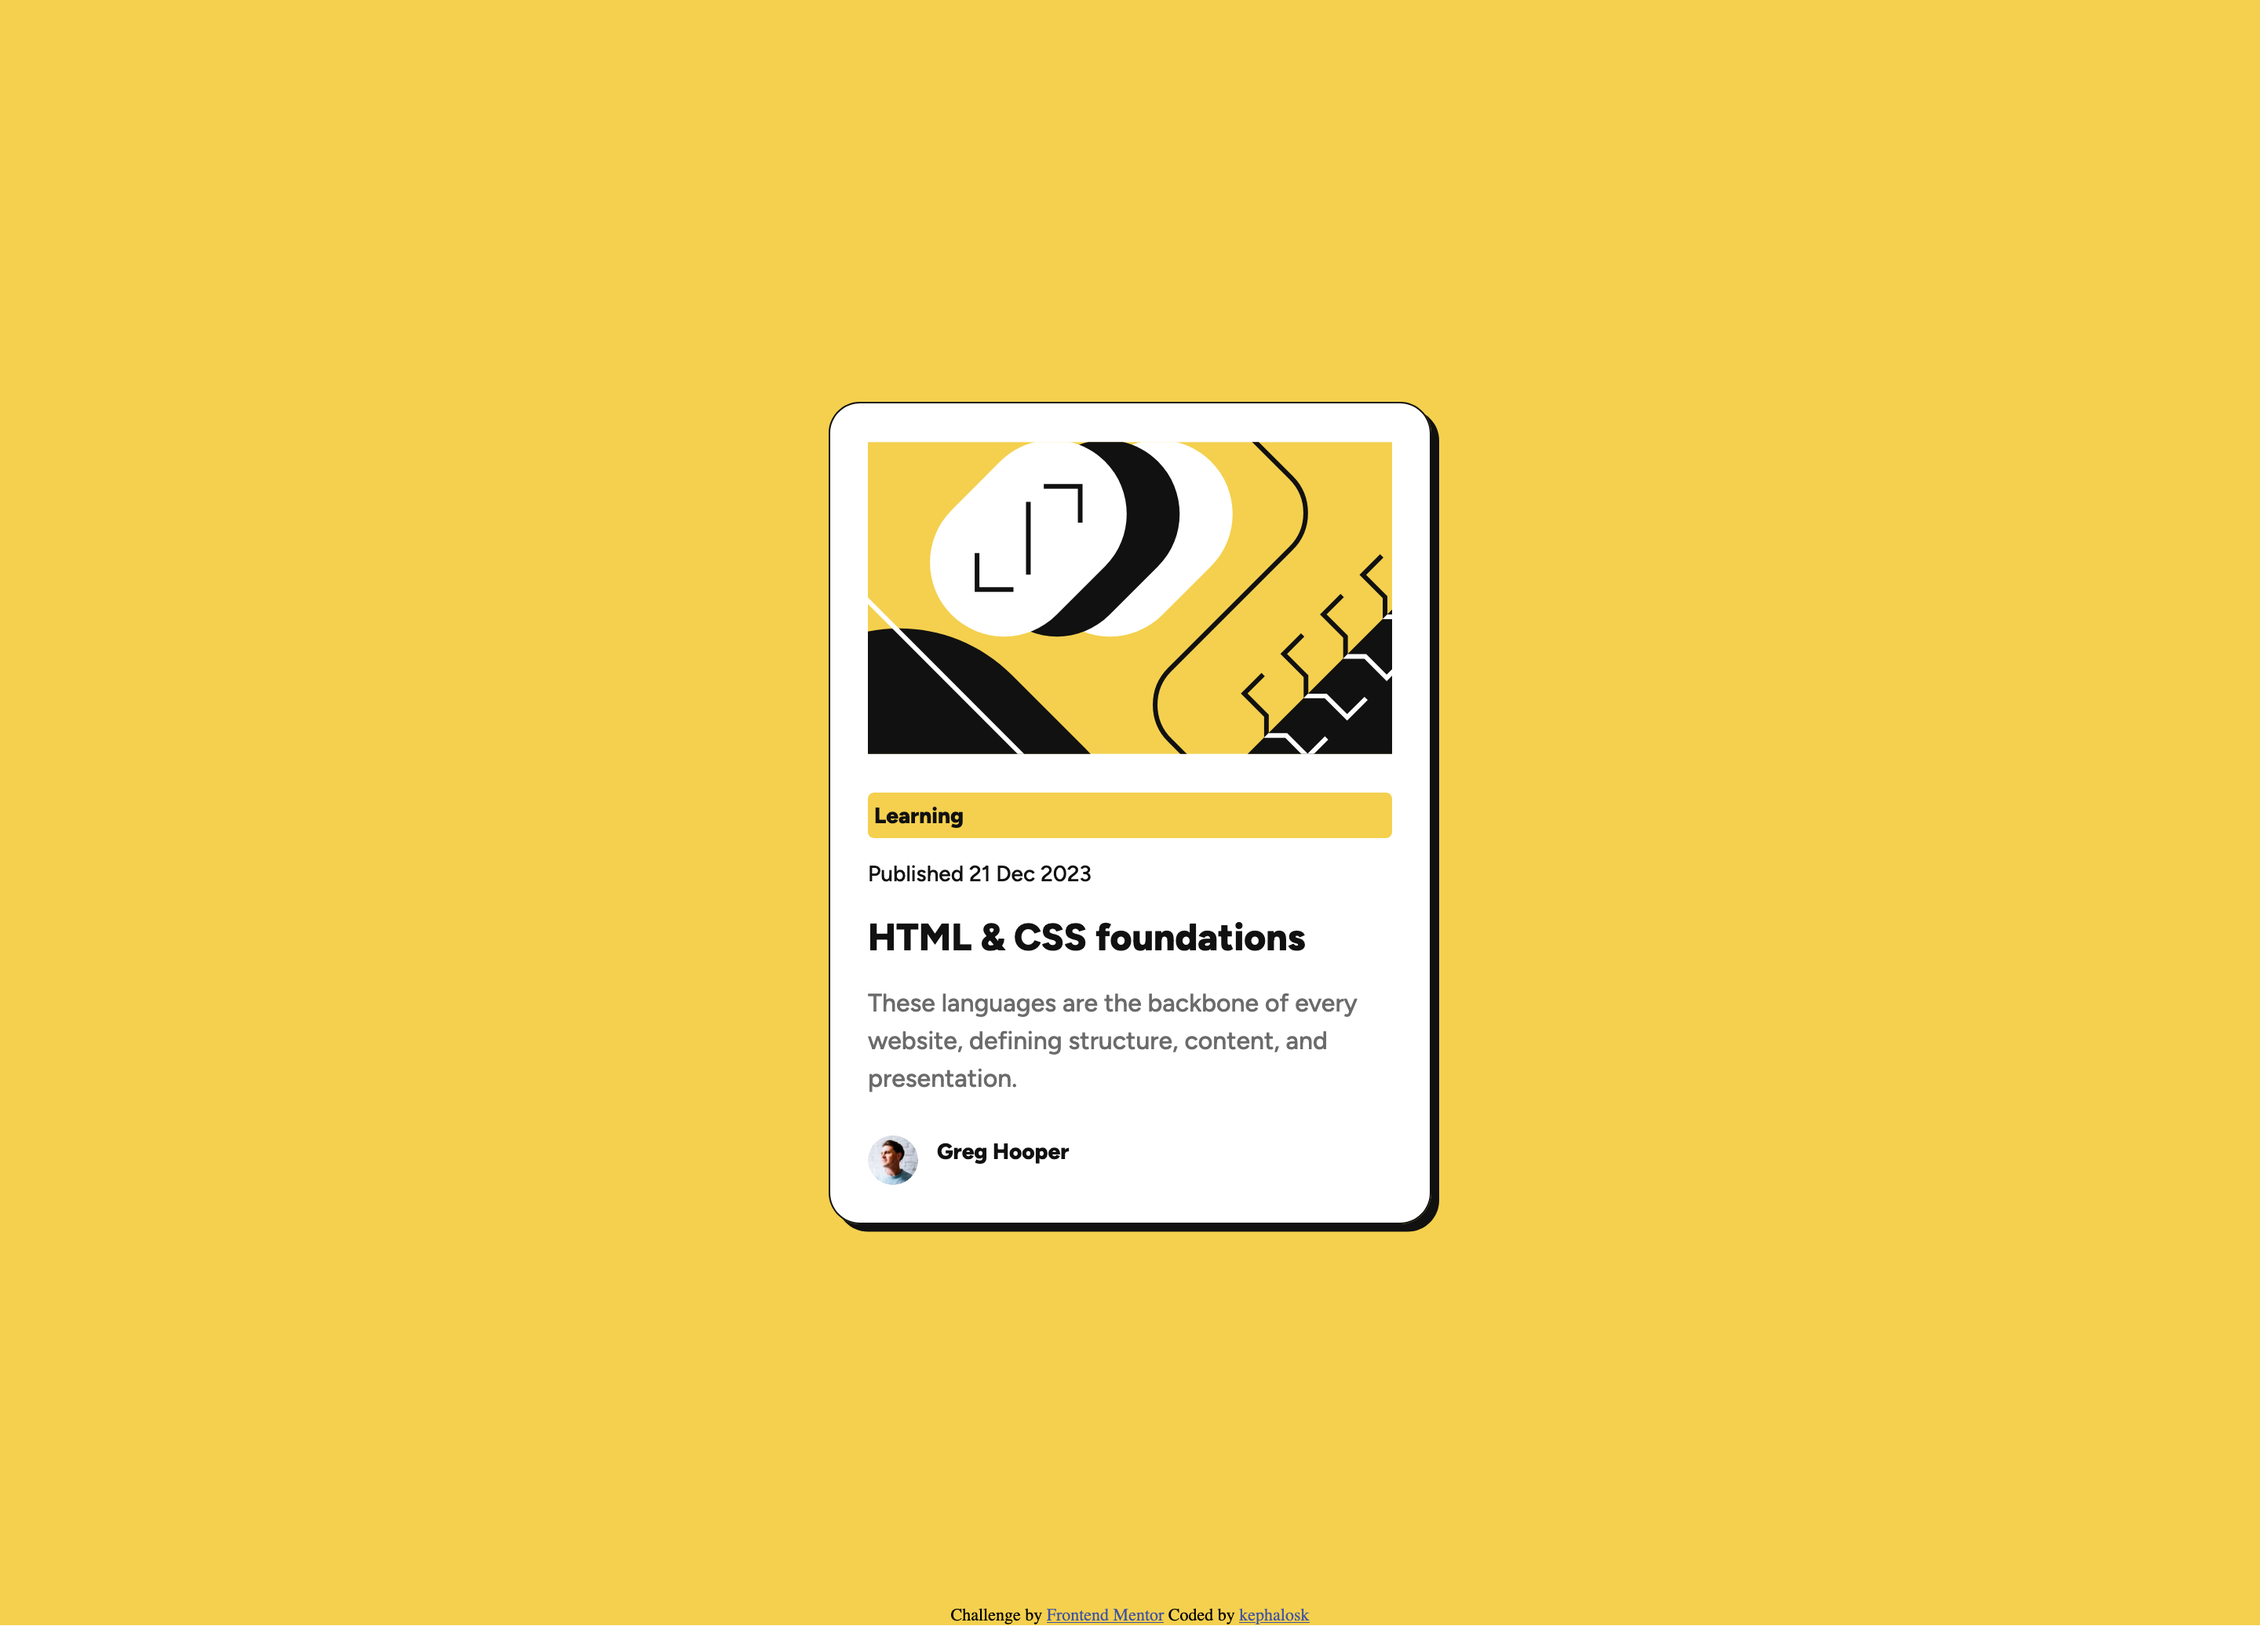
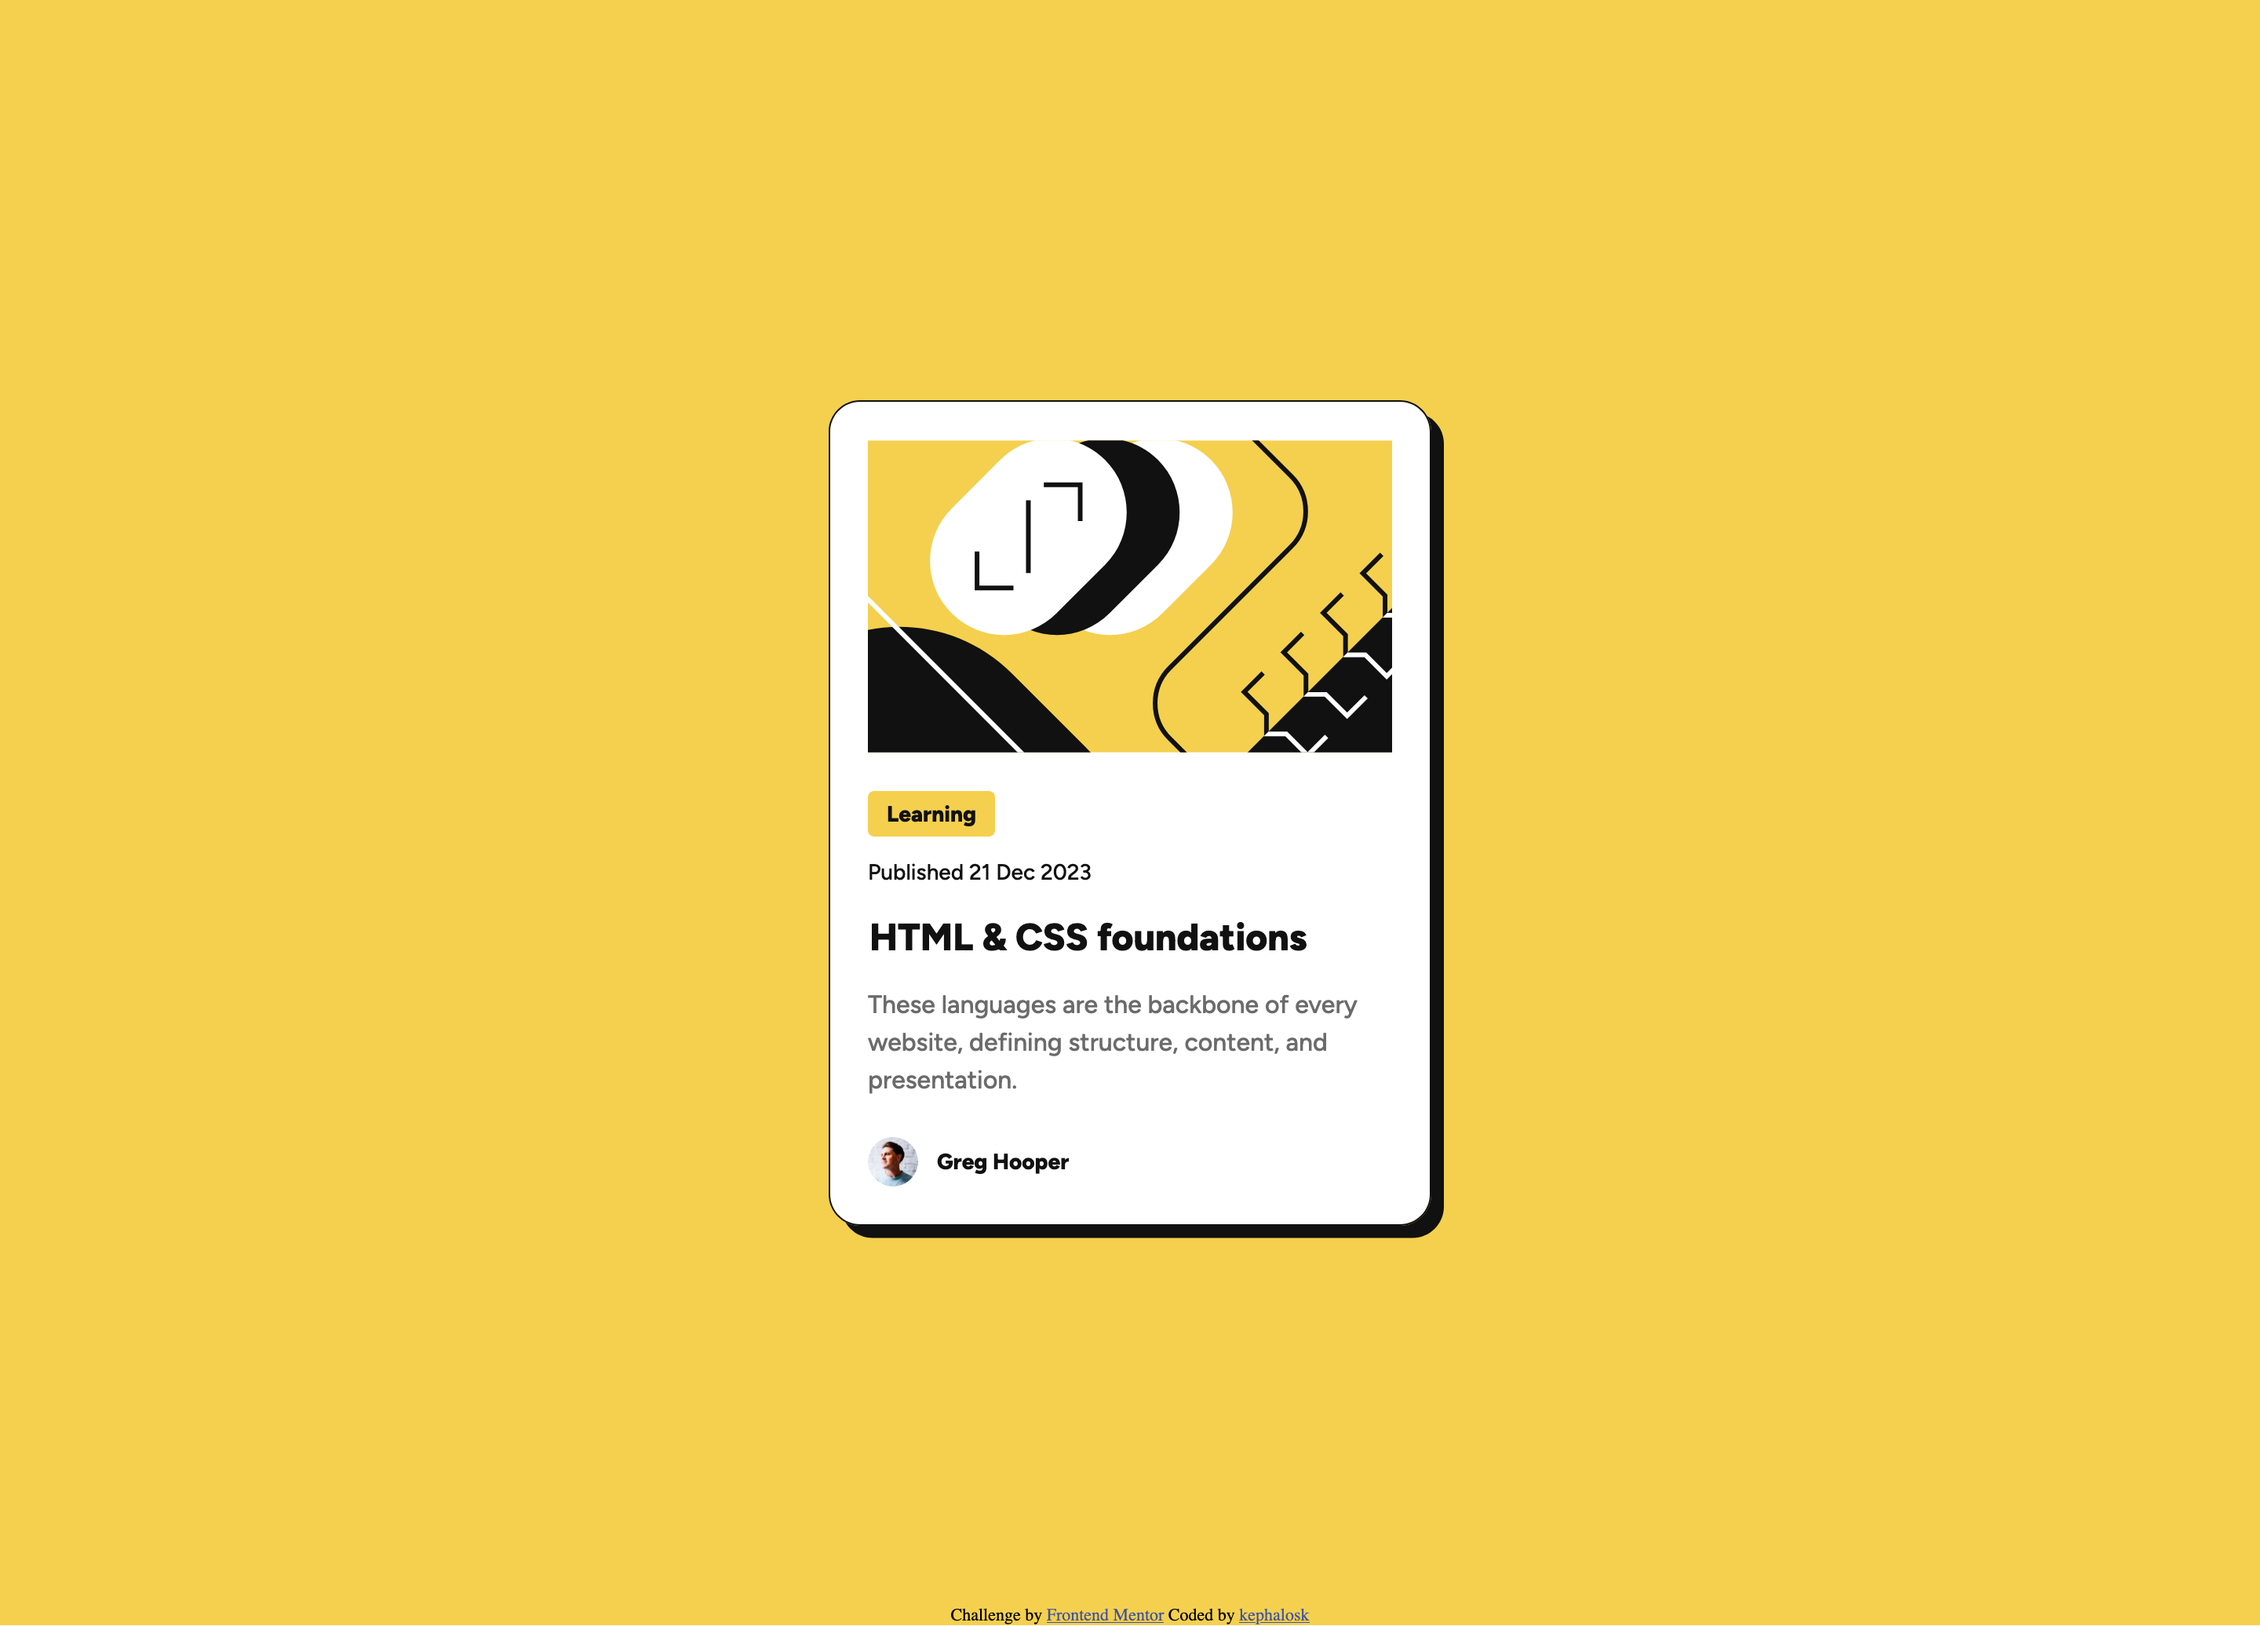
polish styling

Changed region(s): [[0.375, 0.4324, 0.625, 0.5869], [0.375, 0.6795, 0.6562, 0.7722], [0.375, 0.6178, 0.5938, 0.6795]]

diff --git a/index.html b/index.html
@@ -3,12 +3,12 @@
     <head>
         <meta charset="UTF-8">
         <meta name="viewport" content="width=device-width, initial-scale=1.0">
-        <link ref="icon" type="image/png" sizes="32x32" href="./assets/images/favicon-32x32.png">
+        <link rel="icon" type="image/png" sizes="32x32" href="./assets/images/favicon-32x32.png">
         <title>Blog Preview Card | by kephalosk</title>
         <link rel="stylesheet" href="styles.css">
     </head>
     <body>
-        <div id="app">
+        <main id="app">
             <section class="card">
                 <img class="cardImage" src="./assets/images/illustration-article.svg" alt="abstract image" aria-hidden="true"/>
                 <header class="cardContent">
@@ -22,10 +22,10 @@
                     <label class="cardAuthorBarLabel">Greg Hooper</label>
                 </div>
             </section>
-        </div>
-        <div class="attribution">
+        </main>
+        <footer class="attribution">
             Challenge by <a href="https://www.frontendmentor.io?ref=challenge" target="_blank">Frontend Mentor</a>
             Coded by <a href="https://github.com/kephalosk/">kephalosk</a>
-        </div>
+        </footer>
     </body>
 </html>

diff --git a/styles.scss b/styles.scss
@@ -91,7 +91,7 @@ body {
 }
 
 .card {
-  box-shadow: 5px 5px 0 0 $color-gray-950;
+  box-shadow: $space-8px $space-8px 0 $color-gray-950;
   border: 1px solid $color-gray-950;
   border-radius: $radius20px;
   background-color: $color-white;
@@ -105,6 +105,7 @@ body {
 .cardAuthorBar {
   display: flex;
   flex-direction: row;
+  align-items: center;
   column-gap: $space-12px;
 }
 
@@ -129,7 +130,7 @@ body {
 .cardContentCategory {
   border-radius: $radius4px;
   background-color: $color-yellow;
-  padding: $space-4px $space-8px;
+  padding: $space-4px $space-12px;
   max-width: fit-content;
   display: block;
   color: $color-gray-950;

diff --git a/styles.css b/styles.css
@@ -40,7 +40,7 @@ body {
 }
 
 .card {
-  box-shadow: 5px 5px 0 0 #111111;
+  box-shadow: 0.5rem 0.5rem 0 #111111;
   border: 1px solid #111111;
   border-radius: 1.25rem;
   background-color: #FFFFFF;
@@ -54,6 +54,7 @@ body {
 .cardAuthorBar {
   display: flex;
   flex-direction: row;
+  align-items: center;
   column-gap: 0.75rem;
 }
 
@@ -81,7 +82,7 @@ body {
 .cardContentCategory {
   border-radius: 0.25rem;
   background-color: #F4D04E;
-  padding: 0.25rem 0.5rem;
+  padding: 0.25rem 0.75rem;
   max-width: fit-content;
   display: block;
   color: #111111;
